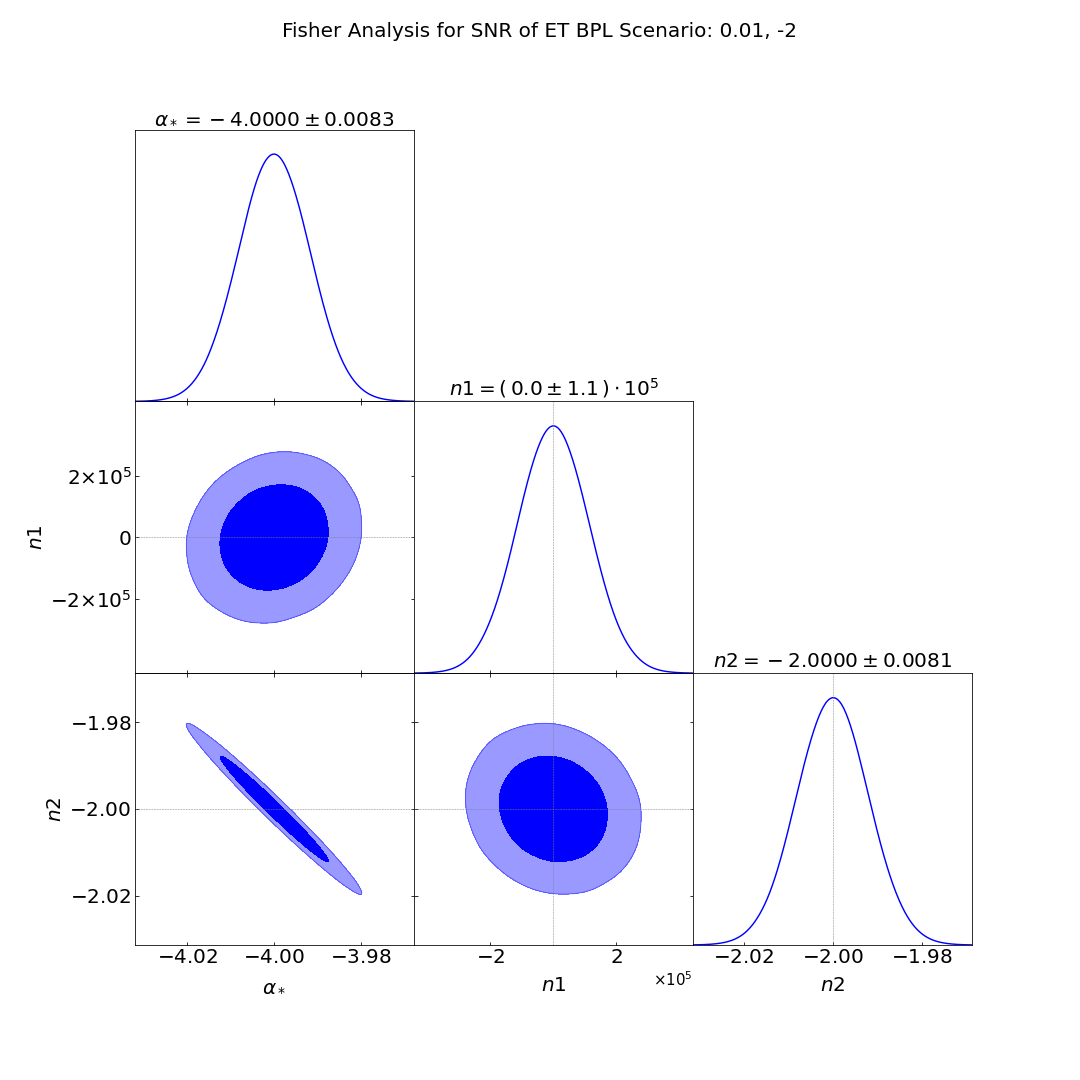
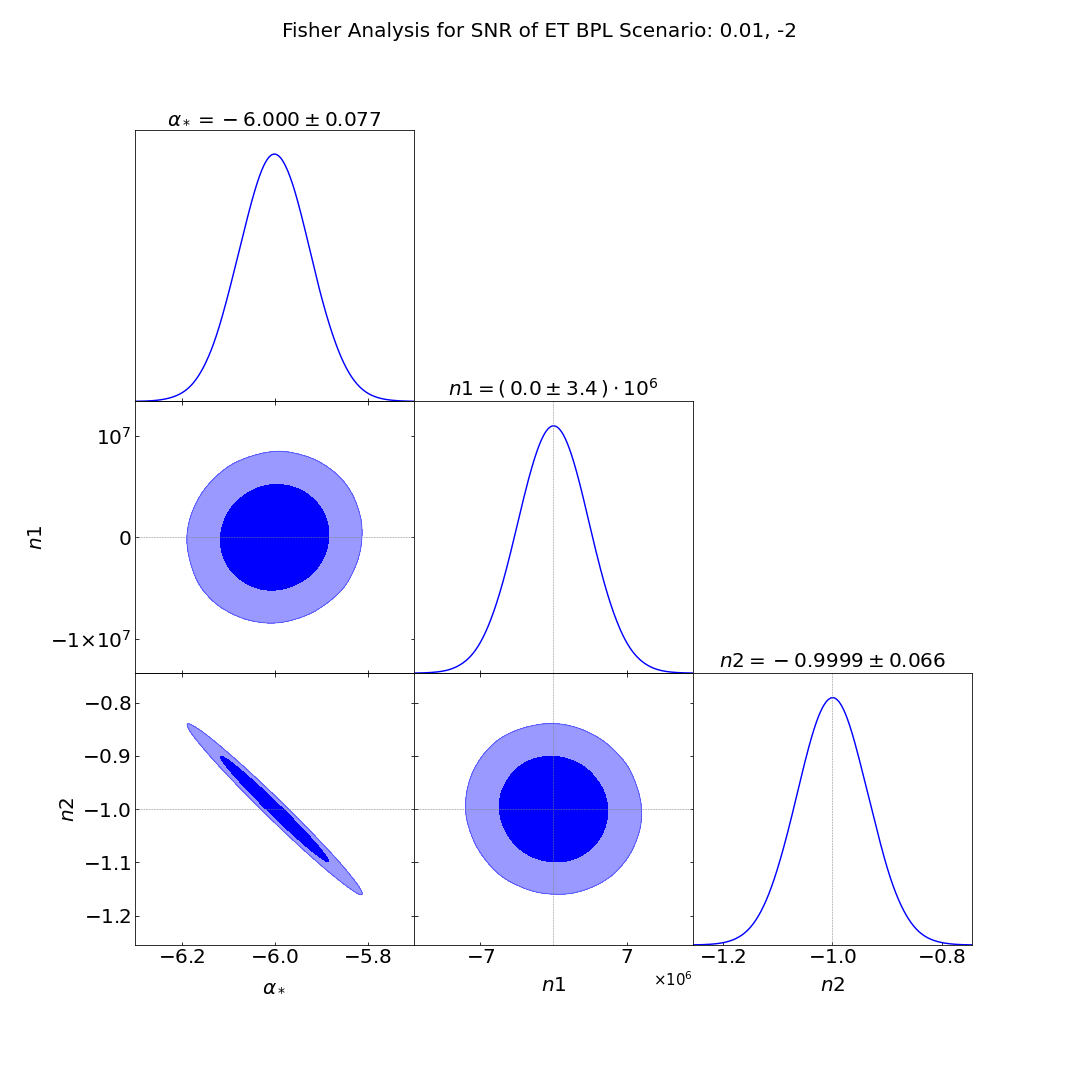
fixed covariance warning
Code is included that will test if a matrix is positive definite. The covm matrices are all positive definite so the fact that the warning is occurring is simply for off diagonal elements > 0. Was apparently patched so don't know why that's happening here, however have included a tol = 1e-6 to stop the warning.

diff --git a/Fisher/FisherMatrixBPLS.py b/Fisher/FisherMatrixBPLS.py
@@ -53,8 +53,10 @@ def SigmaLisaApprox(f):#Sigma_Ohm approx
 L = 25/3
 fLisa = 1/(2*pi*L)
 a1 = -6
-a2 = -4
+a2 = -6
 size = 20
+nom1 = 1
+nom2 = -1
 #%%
 
 def f00(f0, n1, n2, astar):
@@ -93,7 +95,7 @@ def fisher(f0, n1, n2, astar):
                     (f02(f0, n1, n2, astar), f12(f0, n1, n2, astar), f22(f0, n1, n2, astar))))
     return res
 
-lisa = [(0.45, 0.01, -2, a1), (0.45, 0.01, -2, a2)]
+lisa = [(0.45, nom1, nom2, a1), (0.45, nom1, nom2, a2)]
 LISAfm = np.array(list(map(lambda args: fisher(*args), lisa)))
 #LISAfm = np.array(list(lambda args: fisher(*args)))
 
@@ -104,15 +106,17 @@ covmA = np.linalg.inv((FMLA))
 covmB = np.linalg.inv((FMLB))
 
 
-meansA = np.array((a1,0.01, -2))
-meansB = np.array((a2,0.01, -2))
+
+meansA = np.array((a1, nom1, nom2))
+meansB = np.array((a2, nom1, nom2))
 nsamp = int(1E6)
-samps = np.random.multivariate_normal(meansA, covmA, size=nsamp)
-samps2 = np.random.multivariate_normal(meansB, covmB, size=nsamp)
+samps = np.random.multivariate_normal(meansA, covmA, size=nsamp, tol=1e-6)
+samps2 = np.random.multivariate_normal(meansB, covmB, size=nsamp, tol=1e-6)
 names = [r'\alpha_*',r'n1', r'n2']
 labels =  [r'\alpha_*',r'n1', r'n2']
 samples = MCSamples(samples=samps,names = names, labels = labels, label = 'Scenario A')
 samples2 = MCSamples(samples=samps2,names = names, labels = labels, label='Scenario B')
+
 
 #%%
 # g = plots.get_subplot_plotter(subplot_size=5)
@@ -184,7 +188,7 @@ def fisheret(f0, n1, n2, astar):
                     (f02et(f0, n1, n2, astar), f12et(f0, n1, n2, astar), f22et(f0, n1, n2, astar))))
     return res
 
-ET = [(0.45, 0.01, -2, a1), (0.45, 0.01, -2, a2)]#, (0.45, 0.01, -2, -8)]
+ET = [(0.45, nom1, nom2, a1), (0.45, nom1, nom2, a2)]
 ETfm = np.array(list(map(lambda args: fisheret(*args), ET)))
 
 FMEA = ETfm[0]
@@ -194,11 +198,11 @@ covmA = np.linalg.inv((FMEA))
 covmB = np.linalg.inv((FMEB))
 
 
-meansA = np.array((a1,0.01, -2))
-meansB = np.array((a2,0.01, -2))
+meansA = np.array((a1, nom1, nom2))
+meansB = np.array((a2, nom1, nom2))
 nsamp = int(1E6)
-samps = np.random.multivariate_normal(meansA, covmA, size=nsamp)
-samps2 = np.random.multivariate_normal(meansB, covmB, size=nsamp)
+samps = np.random.multivariate_normal(meansA, covmA, size=nsamp, tol=1e-6)
+samps2 = np.random.multivariate_normal(meansB, covmB, size=nsamp, tol=1e-6)
 names = [r'\alpha_*',r'n1', r'n2']
 labels =  [r'\alpha_*',r'n1', r'n2']
 samples = MCSamples(samples=samps,names = names, labels = labels, label = 'Scenario A')
@@ -222,6 +226,7 @@ g.triangle_plot([samples2], contour_colors = ['blue'],
                 filled=True, markers={r'\alpha_*': meansB[0],'n1': meansB[1], 'n2': meansB[2]}, title_limit=1)
 plt.suptitle(r'Fisher Analysis for SNR of ET BPL Scenario: 0.01, -2',fontsize=size)
 plt.savefig('/Users/alisha/Documents/LISA_ET/Fisher graphs/FISHERBPL_ET.png')
+
 #%%
 #all together now
 FMA = FMLA + FMEA
@@ -231,11 +236,11 @@ covmA = np.linalg.inv((FMA))
 covmB = np.linalg.inv((FMB))
 
 
-meansA = np.array((a1,0.01, -2))
-meansB = np.array((a2,0.01, -2))
+meansA = np.array((a1, nom1, nom2))
+meansB = np.array((a2, nom1, nom2))
 nsamp = int(1E6)
-samps = np.random.multivariate_normal(meansA, covmA, size=nsamp)
-samps2 = np.random.multivariate_normal(meansB, covmB, size=nsamp)
+samps = np.random.multivariate_normal(meansA, covmA, size=nsamp, tol=1e-6)
+samps2 = np.random.multivariate_normal(meansB, covmB, size=nsamp, tol=1e-6)
 names = [r'\alpha_*',r'n1', r'n2']
 labels =  [r'\alpha_*',r'n1', r'n2']
 samples = MCSamples(samples=samps,names = names, labels = labels, label = 'Scenario A')
@@ -264,7 +269,19 @@ plt.savefig('/Users/alisha/Documents/LISA_ET/Fisher graphs/FISHERBPL_COMB.png')
 
 
 
+#%%
 
+
+# arr = covmA #you will need to run the cell with the covariance matrix you want
+#               #you want to check first since they all have the same name
+
+# #Check if the matrix is symmetric
+# is_symmetric = np.allclose(arr, arr.T)
+# print("Is symmetric:", is_symmetric)
+
+# #Check if all principal minors are positive
+# minors_positive = all(np.linalg.det(arr[:i, :i]) > 0 for i in range(1, arr.shape[0] + 1))
+# print("All principal minors are positive:", minors_positive)
 
 
 
